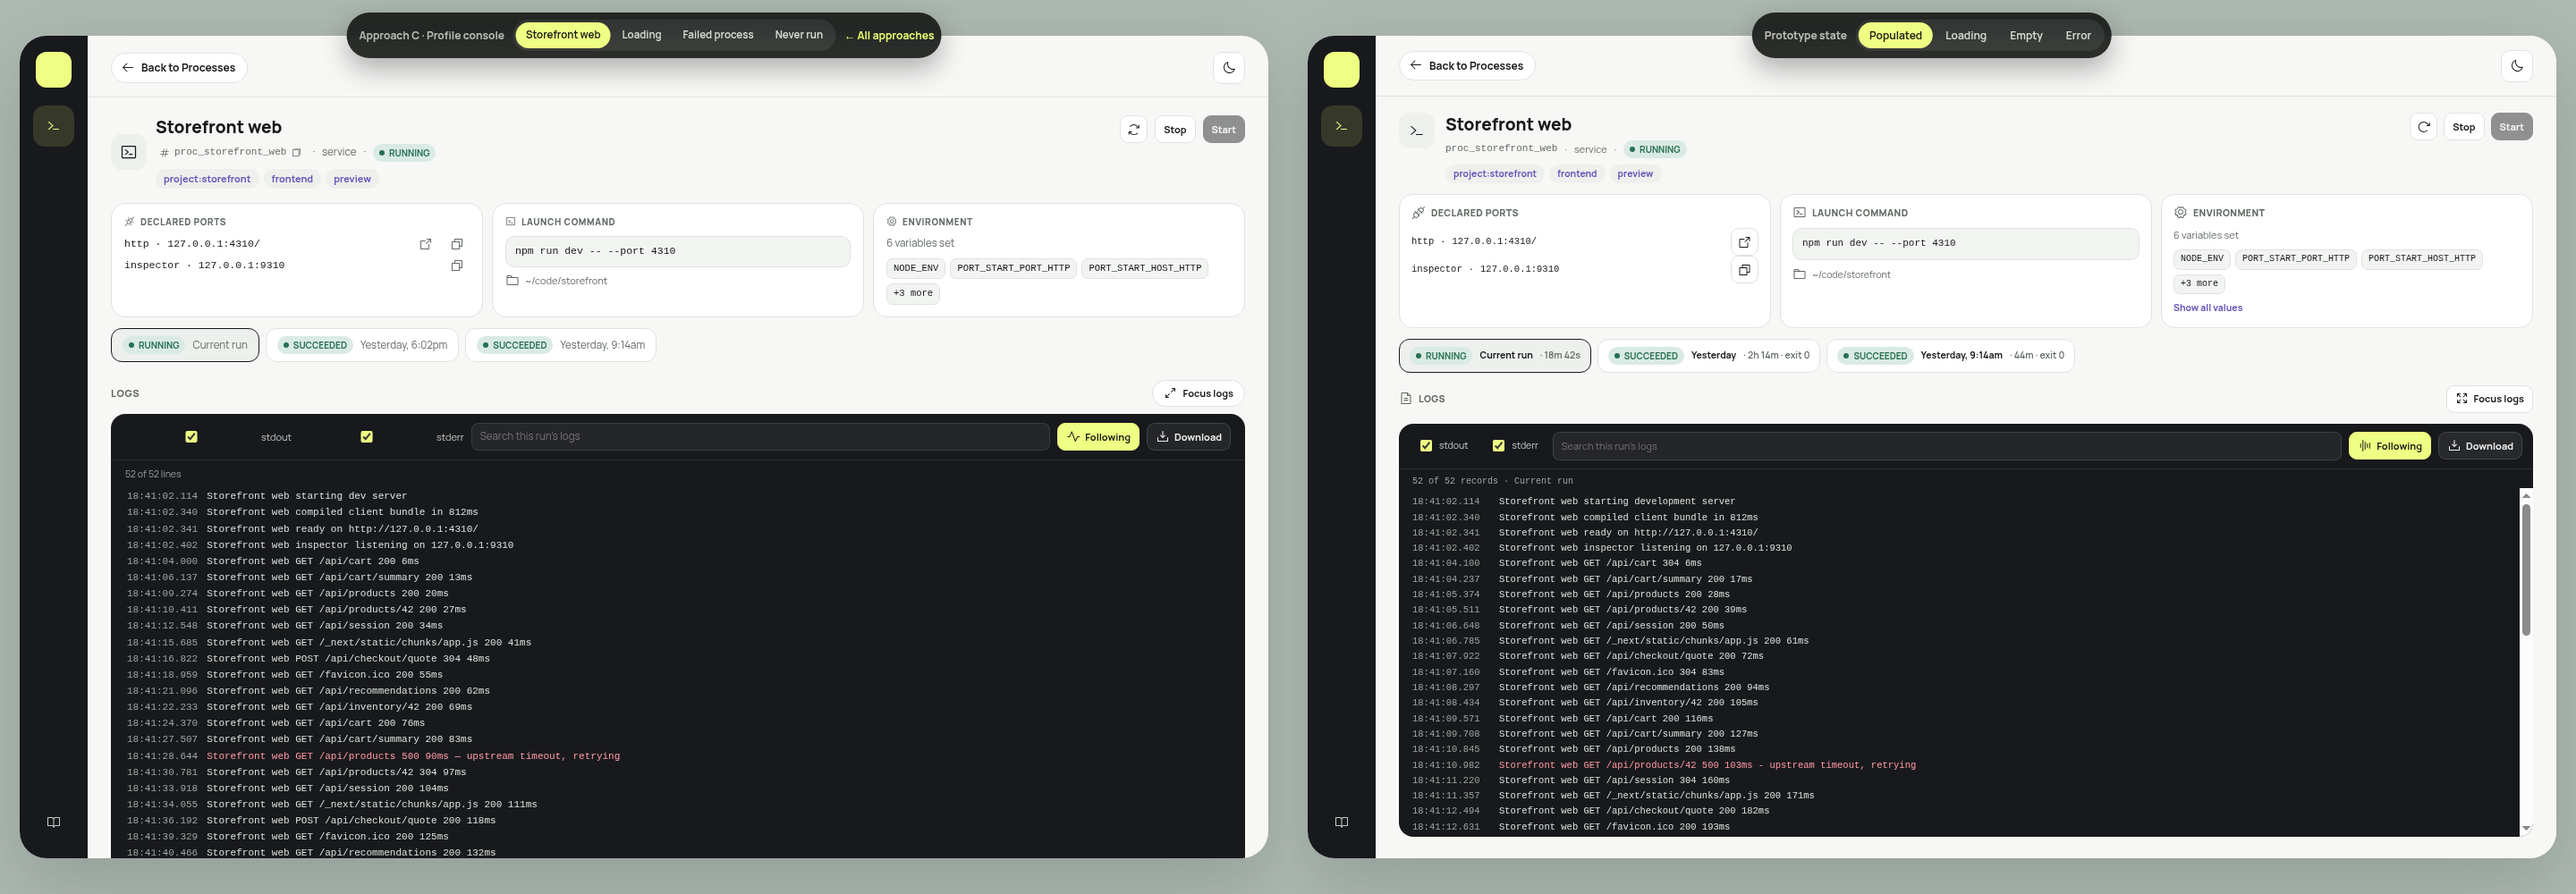
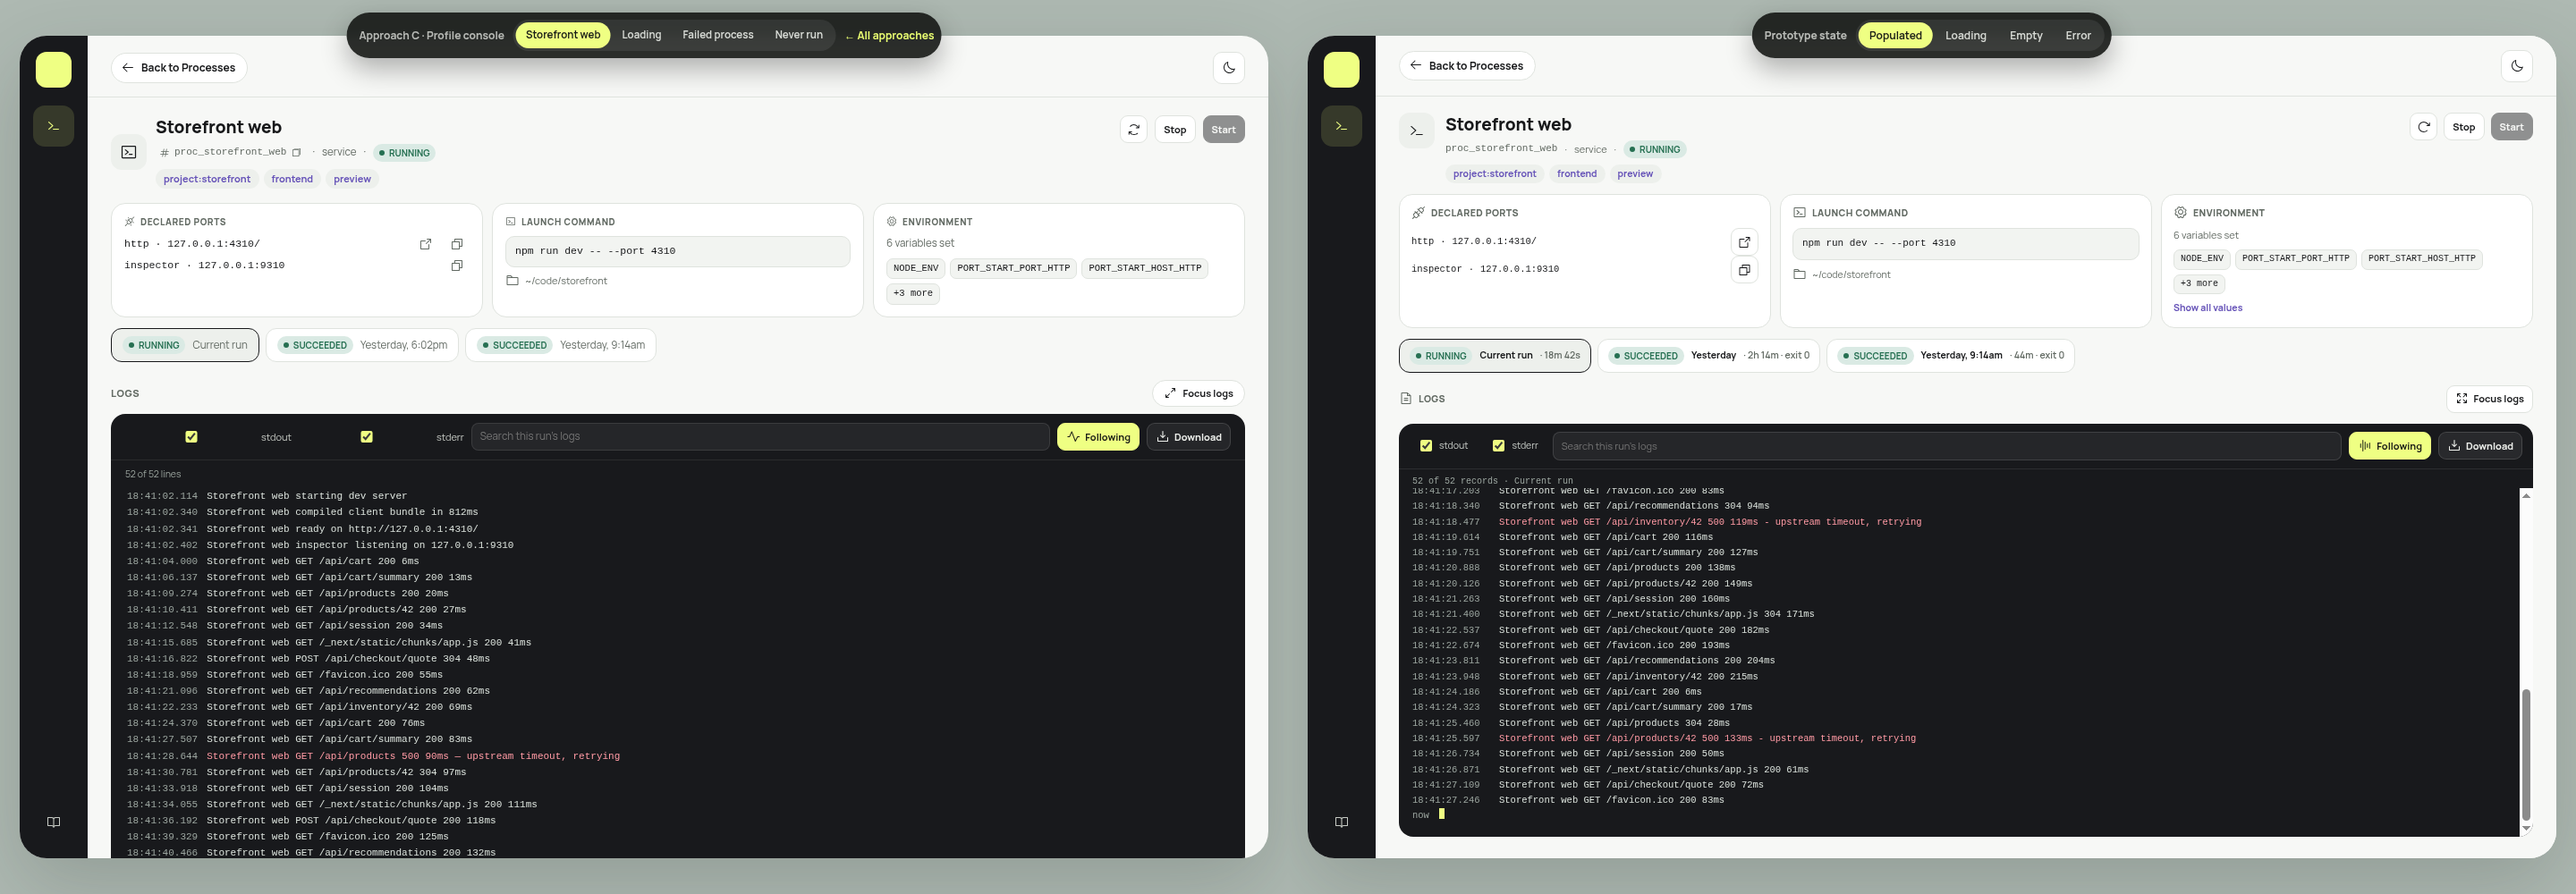
fix: complete process detail log controls

Changed region(s): [[0.5312, 0.558, 0.7188, 0.93]]

diff --git a/prototype/index.html b/prototype/index.html
@@ -1685,6 +1685,8 @@
     detailLogFocused: false,
     detailEnvironmentExpanded: false,
     detailOpenedFromInventory: false,
+    detailReturnFocusProcessId: null,
+    detailRestoreFocusOnInventory: false,
     collapsedGroups: new Set(),
     pendingDeregister: null,
     activeDialog: null,
@@ -1974,6 +1976,103 @@
         : "")
   }
 
+  function detailFocusKey(element = document.activeElement) {
+    if (!element || !processDetail.contains(element)) return null
+    if (element.id) return { type: "id", value: element.id }
+    if (element.dataset.detailRun) {
+      return { type: "detailRun", value: element.dataset.detailRun }
+    }
+    if (element.matches("[data-detail-environment-toggle]")) {
+      return { type: "environmentToggle" }
+    }
+    if (element.dataset.serviceAction) {
+      return {
+        type: "serviceAction",
+        value: element.dataset.serviceAction,
+        processId: element.dataset.processId
+      }
+    }
+    if (element.dataset.taskAction) {
+      return {
+        type: "taskAction",
+        value: element.dataset.taskAction,
+        processId: element.dataset.processId
+      }
+    }
+    return null
+  }
+
+  function detailFocusTarget(key) {
+    if (!key) return null
+    if (key.type === "id") return processDetail.querySelector(`#${key.value}`)
+    if (key.type === "detailRun") {
+      return [...processDetail.querySelectorAll("[data-detail-run]")]
+        .find(element => element.dataset.detailRun === key.value)
+    }
+    if (key.type === "environmentToggle") {
+      return processDetail.querySelector("[data-detail-environment-toggle]")
+    }
+    if (key.type === "serviceAction") {
+      return [...processDetail.querySelectorAll("[data-service-action]")]
+        .find(element =>
+          element.dataset.serviceAction === key.value &&
+          element.dataset.processId === key.processId
+        )
+    }
+    if (key.type === "taskAction") {
+      return [...processDetail.querySelectorAll("[data-task-action]")]
+        .find(element =>
+          element.dataset.taskAction === key.value &&
+          element.dataset.processId === key.processId
+        )
+    }
+    return null
+  }
+
+  function scrollDetailToLatest() {
+    const process = PROCESSES.find(item => item.id === state.detailProcessId)
+    const run = process && selectedRun(process)
+    if (
+      !state.detailFollow ||
+      !run ||
+      !["running", "starting"].includes(run.state)
+    ) {
+      return
+    }
+    const logBody = processDetail.querySelector(".detail-log-body")
+    if (logBody) logBody.scrollTop = logBody.scrollHeight
+  }
+
+  function logDownloadFileName(process, run) {
+    const label = process.label
+      .toLowerCase()
+      .replace(/[^a-z0-9]+/g, "-")
+      .replace(/^-|-$/g, "")
+    return `${label}-${run.id}.log`
+  }
+
+  function logDownloadContent(run) {
+    return run.lines
+      .map(line => `${line.time} ${line.stream} ${line.text}`)
+      .join("\n") + "\n"
+  }
+
+  function downloadRunLogs(process, run) {
+    const blob = new Blob([logDownloadContent(run)], {
+      type: "text/plain;charset=utf-8"
+    })
+    const url = URL.createObjectURL(blob)
+    const link = document.createElement("a")
+    link.href = url
+    link.download = logDownloadFileName(process, run)
+    link.hidden = true
+    document.body.append(link)
+    link.click()
+    link.remove()
+    setTimeout(() => URL.revokeObjectURL(url), 1000)
+    showToast(`Downloaded ${run.when} logs for ${process.label}.`)
+  }
+
   function detailRunMarkup(run, selected) {
     const status = runState(run)
     const exit = run.state === "exited" ? ` · exit ${run.code}` : ""
@@ -2017,7 +2116,7 @@
           </span>
           <div class="detail-identity">
             <div class="detail-title-row">
-              <h1 class="detail-title">${escapeHtml(process.label)}</h1>
+              <h1 class="detail-title" tabindex="-1">${escapeHtml(process.label)}</h1>
             </div>
             <div class="detail-subtitle">
               <code data-detail-process-id>${escapeHtml(process.id)}</code>
@@ -2148,7 +2247,9 @@
     `
   }
 
-  function renderDetail() {
+  function renderDetail({ focusHeading = false, focusKey } = {}) {
+    const nextFocusKey =
+      focusKey === undefined ? detailFocusKey() : focusKey
     const process = PROCESSES.find(item => item.id === state.detailProcessId)
     if (!process) {
       processDetail.innerHTML = `
@@ -2165,6 +2266,11 @@
     processDetail.innerHTML = detailMarkup(process)
     document.title = `${process.label} - Port Start`
     syncThemeControls()
+    const focusTarget = focusHeading
+      ? processDetail.querySelector(".detail-title")
+      : detailFocusTarget(nextFocusKey)
+    if (focusTarget) focusTarget.focus({ preventScroll: true })
+    scrollDetailToLatest()
   }
 
   function paintDetailLogView() {
@@ -2178,6 +2284,7 @@
     logCount.textContent = run
       ? `${lines.length} of ${run.lines.length} records · ${run.when}`
       : "No runs"
+    scrollDetailToLatest()
   }
 
   function showInventoryRoute() {
@@ -2186,6 +2293,15 @@
     body.hidden = false
     processDetail.hidden = true
     document.title = "Port Start - Process manager"
+    if (state.detailRestoreFocusOnInventory) {
+      const processId = state.detailReturnFocusProcessId
+      const source = [...document.querySelectorAll("[data-open-process]")]
+        .find(element => element.dataset.openProcess === processId)
+      const focusTarget = source || document.getElementById("processSearch")
+      state.detailRestoreFocusOnInventory = false
+      state.detailReturnFocusProcessId = null
+      focusTarget.focus({ preventScroll: true })
+    }
   }
 
   function showDetailRoute(processId) {
@@ -2193,12 +2309,16 @@
     inventoryHeader.hidden = true
     body.hidden = true
     processDetail.hidden = false
-    renderDetail()
+    renderDetail({ focusHeading: true, focusKey: null })
   }
 
   function syncRoute() {
     const match = location.hash.match(/^#process\/([^/]+)$/)
     if (!match) {
+      if (state.detailOpenedFromInventory) {
+        state.detailOpenedFromInventory = false
+        state.detailRestoreFocusOnInventory = true
+      }
       showInventoryRoute()
       return
     }
@@ -2215,6 +2335,7 @@
     state.detailFollow = true
     state.detailLogFocused = false
     state.detailEnvironmentExpanded = false
+    state.detailReturnFocusProcessId = process.id
     const runs = processRuns(process)
     if (runs[0]) state.selectedRuns.set(process.id, runs[0].id)
     location.hash = `process/${encodeURIComponent(process.id)}`
@@ -2224,6 +2345,7 @@
   function closeProcessDetail() {
     if (state.detailOpenedFromInventory && location.hash) {
       state.detailOpenedFromInventory = false
+      state.detailRestoreFocusOnInventory = true
       history.back()
       return
     }
@@ -2711,28 +2833,30 @@
       state.selectedRuns.set(state.detailProcessId, detailRun.dataset.detailRun)
       state.detailLogQuery = ""
       state.detailFollow = true
-      renderDetail()
+      renderDetail({
+        focusKey: { type: "detailRun", value: detailRun.dataset.detailRun }
+      })
       return
     }
     if (event.target.closest("[data-detail-environment-toggle]")) {
       state.detailEnvironmentExpanded = !state.detailEnvironmentExpanded
-      renderDetail()
+      renderDetail({ focusKey: { type: "environmentToggle" } })
       return
     }
     if (event.target.closest("#detailFollow")) {
       state.detailFollow = !state.detailFollow
-      renderDetail()
+      renderDetail({ focusKey: { type: "id", value: "detailFollow" } })
       return
     }
     if (event.target.closest("#detailFocusLogs")) {
       state.detailLogFocused = !state.detailLogFocused
-      renderDetail()
+      renderDetail({ focusKey: { type: "id", value: "detailFocusLogs" } })
       return
     }
     if (event.target.closest("#detailDownload")) {
       const process = PROCESSES.find(item => item.id === state.detailProcessId)
       const run = selectedRun(process)
-      if (run) showToast(`Prepared ${run.when} logs for ${process.label}.`)
+      if (run) downloadRunLogs(process, run)
       return
     }
     const processLink = event.target.closest("[data-open-process]")
@@ -2822,7 +2946,7 @@
     if (download) {
       const process = PROCESSES.find(item => item.id === download.dataset.downloadLogs)
       const run = processRuns(process).find(item => item.id === download.dataset.runId)
-      showToast(`Prepared ${run?.when || "selected run"} logs for ${process.label}.`)
+      if (run) downloadRunLogs(process, run)
       return
     }
     if (event.target.closest("#retryLoad")) {

diff --git a/design-qa.md b/design-qa.md
@@ -34,6 +34,8 @@ The implementation matches the target card structure, log console, action order,
 The desktop comparison preserves both full-size captures, so labels and log controls remain readable.
 The mobile comparison checks the same populated state without horizontal page overflow.
 
+The reference shows the first records while its Follow control is active.
+The implementation shows the newest records so that the Follow control reports its actual state.
 The target clips some port actions and run tabs at the mobile width.
 The implementation keeps these controls inside the viewport as an intentional responsive improvement.
 The implementation uses slightly more vertical space for the mobile environment card.
